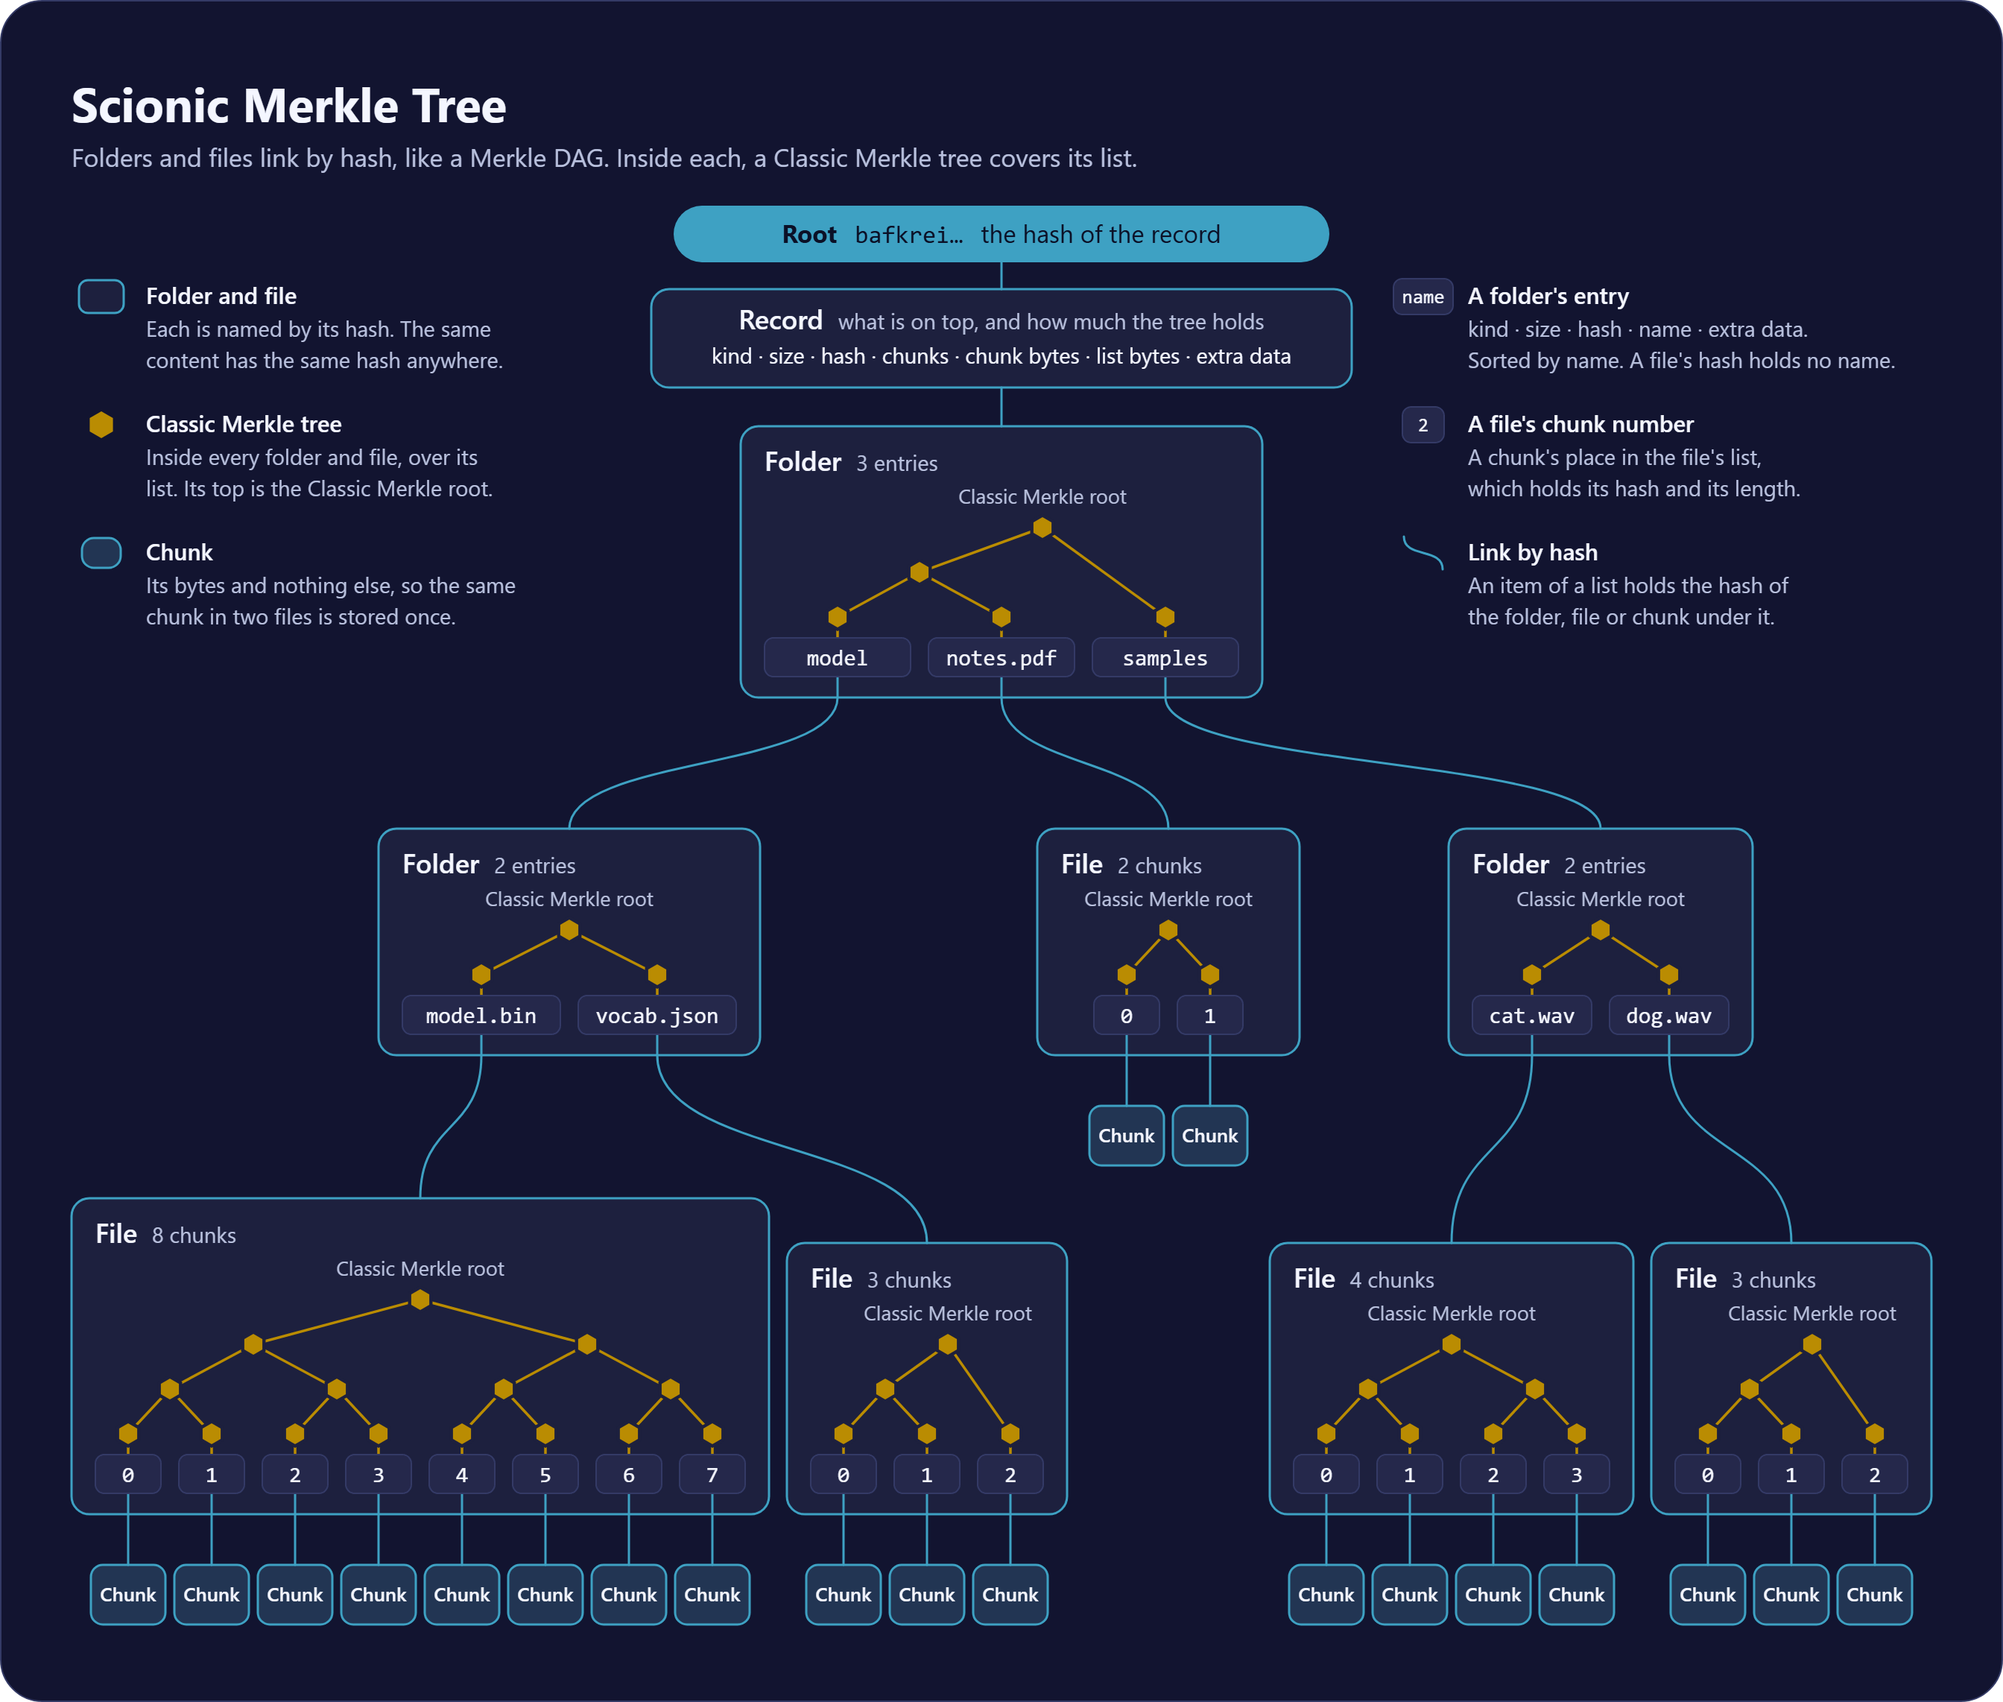
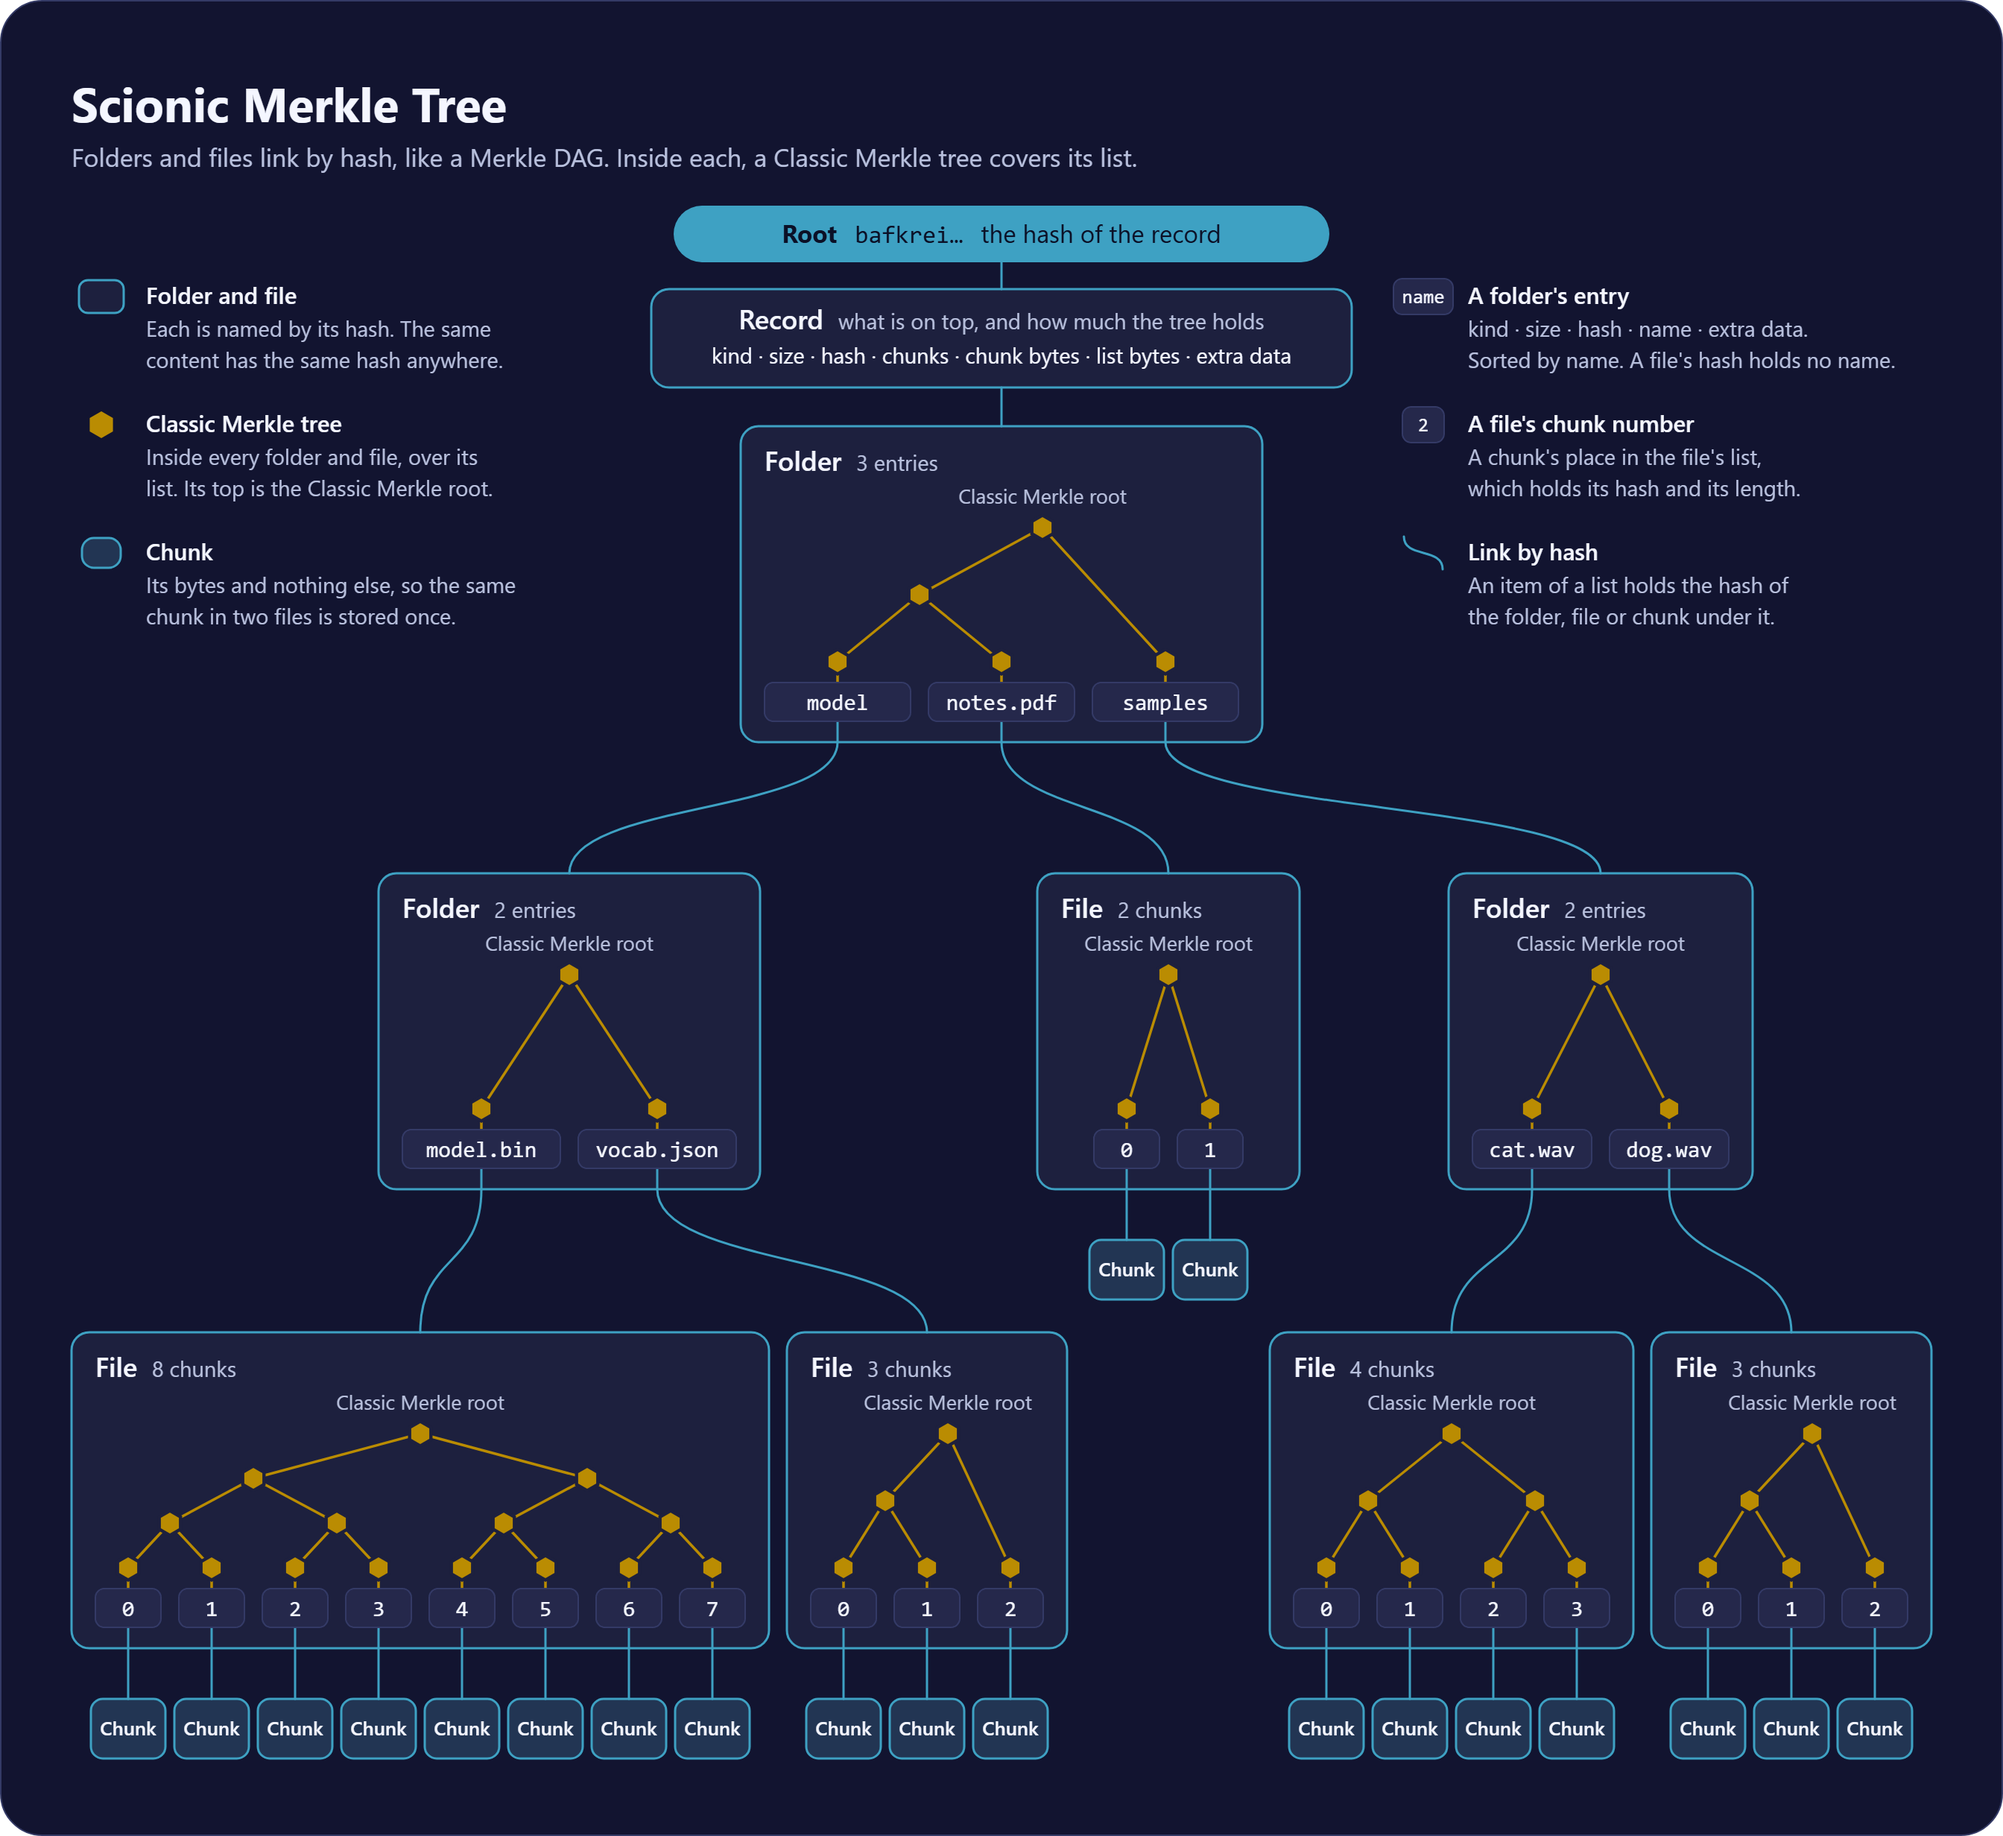
docs: every box in the tree pictures has one height
The file of eight chunks stood higher than the files beside it, because
each box was as tall as its own tree.

- Every folder and file box now has the height of the deepest tree, so
  the boxes of a row line up at the top and at the bottom.
- A tree of fewer levels is drawn as tall as the deepest: every Classic
  Merkle root stands at one height in its box, and so does every leaf.

diff --git a/docs/pictures/README.md b/docs/pictures/README.md
@@ -31,6 +31,7 @@ Everything a picture says is at the top of `pictures.mjs` or in the function tha
 - **`SYNC`** is the name of the protocol that asks for a file's chunks by their numbers.
 - **`TOP`, `LEFT` and `RIGHT`** are the names in the example tree: the folder on top holds a folder, a file and a folder, and each of those two folders holds two files. The names must be in the order of their bytes, as a folder's entries are, and the program refuses them otherwise.
 - **`CHUNKS`** is how many chunks each file has. Every file is drawn the way a folder is: a box with the Classic Merkle tree over its list, its chunks' numbers under the tree's leaves, and its chunks under those. A file in these pictures has two chunks or more, so that its tree can be seen, and the program refuses a file with fewer. The format itself has smaller files: one of 512 KiB or less is a single chunk, and its tree is that one leaf.
+- **Every folder and file box has one height,** that of the deepest tree, so that the boxes of a row line up at the top and at the bottom. A tree of fewer levels is drawn as tall as the deepest: every Classic Merkle root stands at one height in its box, and so does every leaf.
 - **The bottom row fills the picture from edge to edge.** If the files are given more chunks than fit, the program refuses them, and says how much room is left and how much is needed.
 - **`PROVEN`** is the chunk that the branch picture proves, in the first file of the first folder. What is shown, what is sent beside it and what the receiver works out follow from it by the rule in [`spec/FORMAT.md`](../../spec/FORMAT.md), under "Showing a part".
 - **The rows of the table** are in `table()`.
